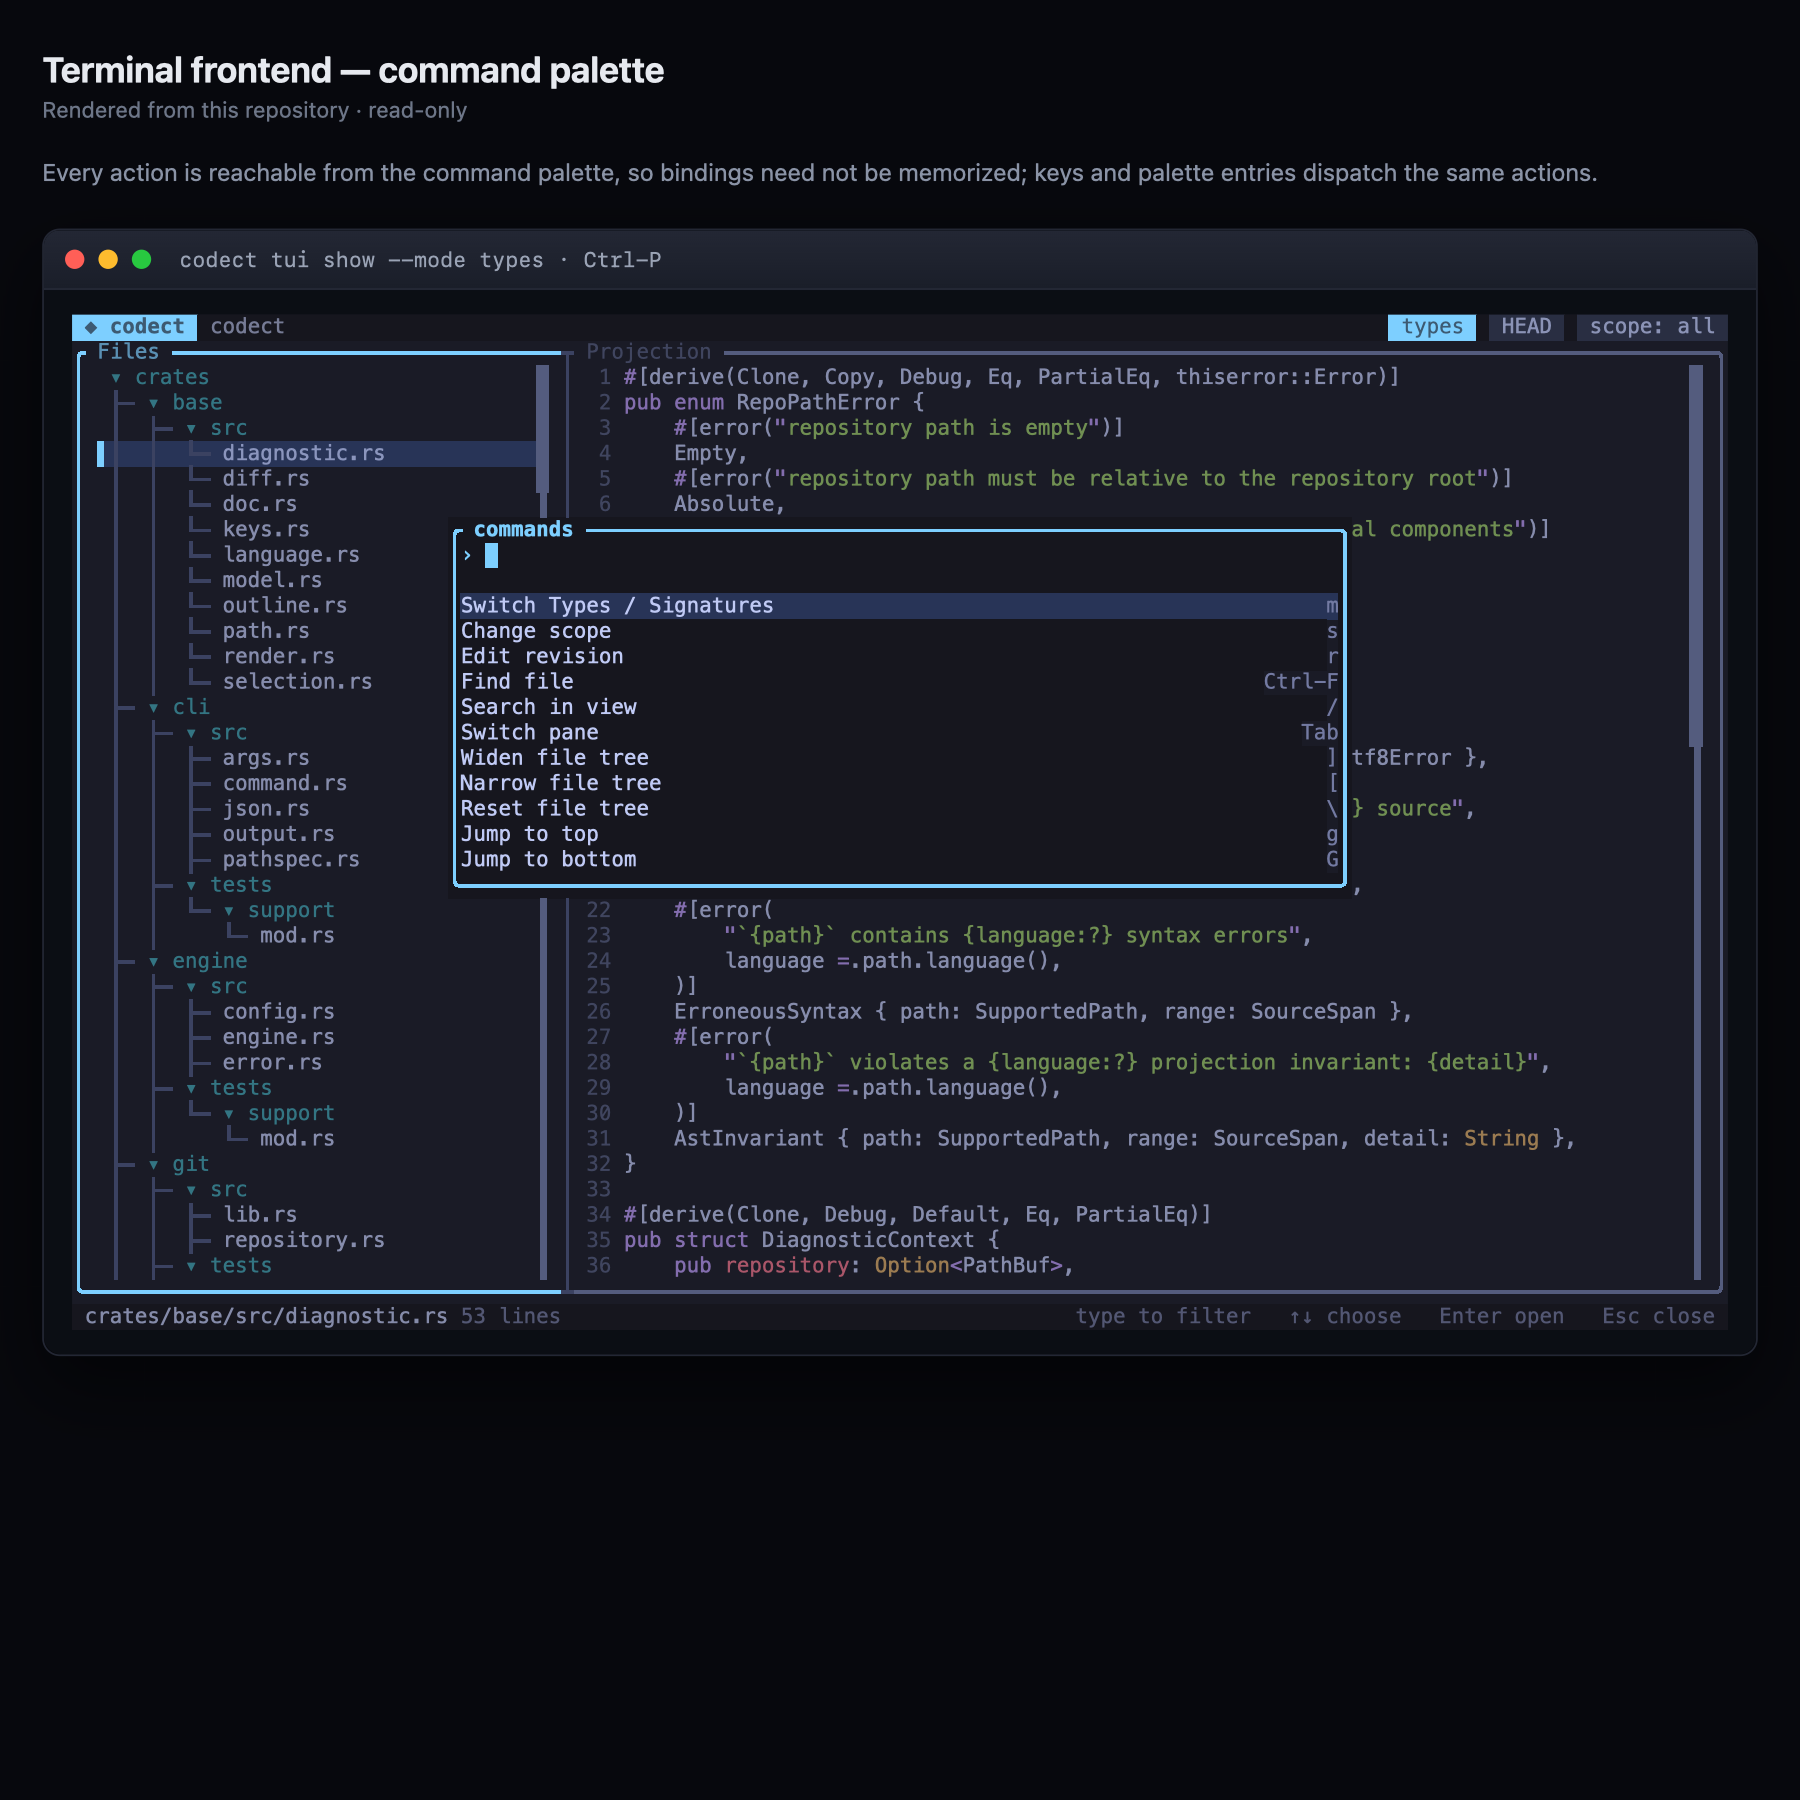
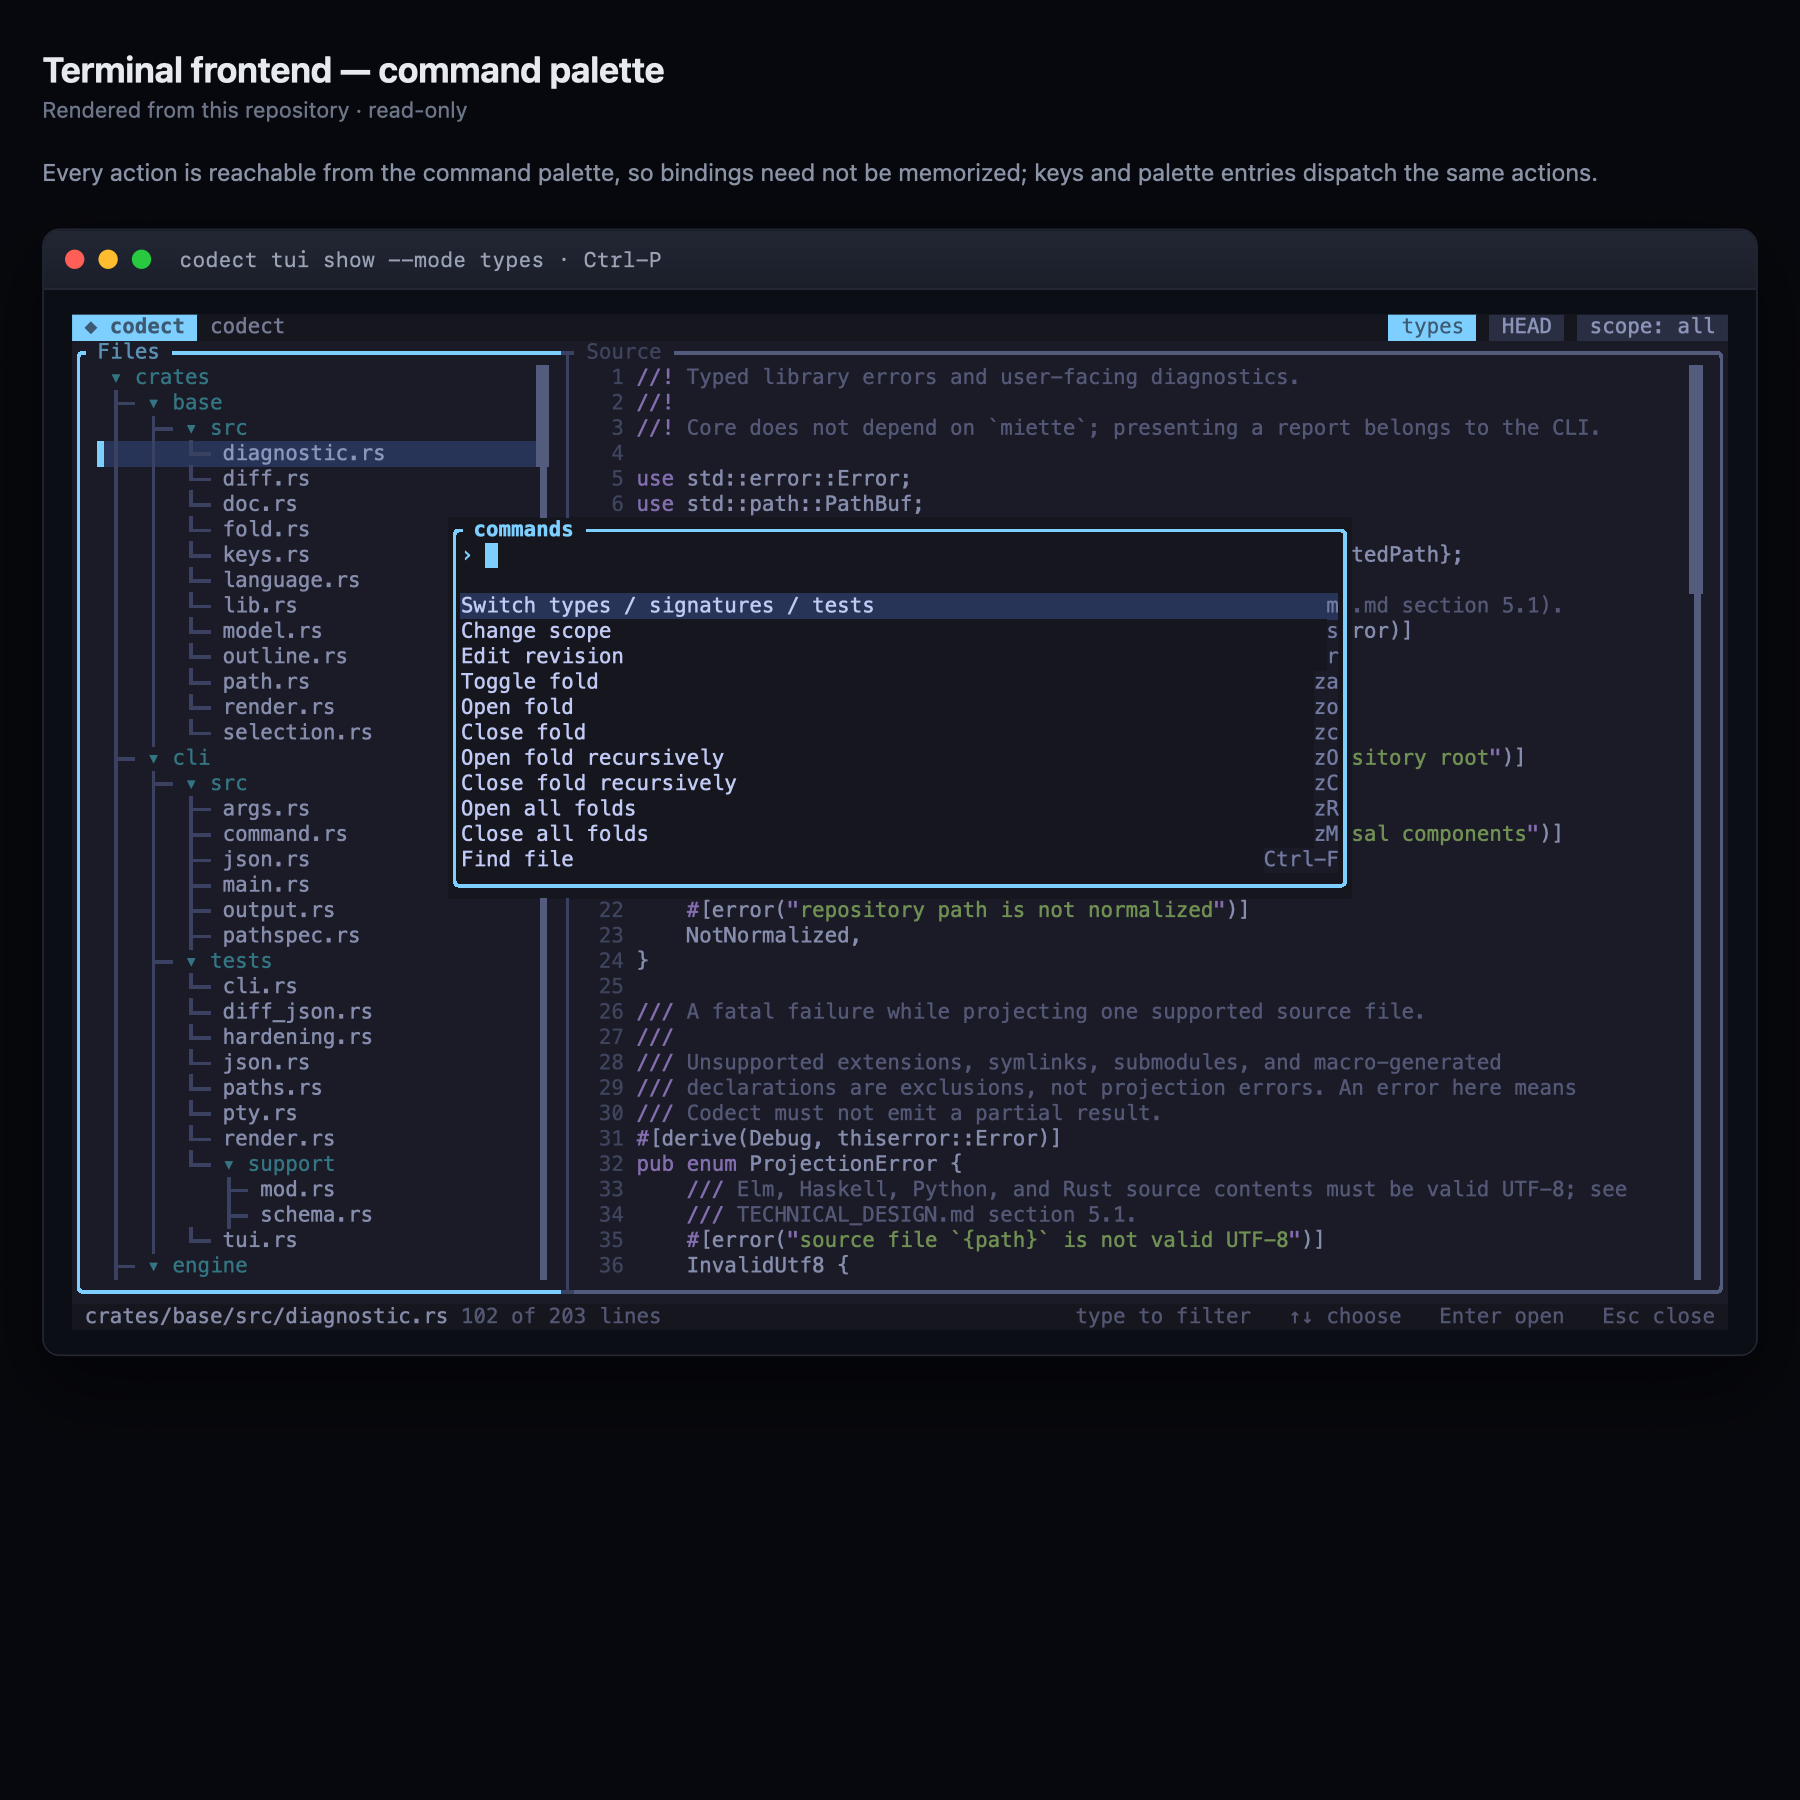
docs(showcase): regenerate the tui show frame for the source explorer

diff --git a/scripts/showcase_tui.py b/scripts/showcase_tui.py
@@ -27,8 +27,9 @@ RENDER_SIZE = 1800
 # (frame file stem, page title, command shown in the window bar, caption)
 FRAMES = [
     ("tui-show", "Terminal frontend — show", "codect tui show --mode types",
-     "A file tree beside the canonical projection. `m` switches Types/Signatures, "
-     "`s` changes scope, and the projection is searchable with `/`."),
+     "A source explorer: the real source with mode-driven folds. `j`/`k` move the body "
+     "cursor; `za`/`zo`/`zc`/`zO`/`zC`/`zR`/`zM` and `Enter` fold; `m` switches "
+     "types/signatures/tests; `/` searches."),
     ("tui-diff-range", "Terminal frontend — diff range", "codect tui diff range --mode types",
      "A side-by-side projection diff with full-width hunk bands and brighter "
      "intra-line emphasis on the bytes that changed."),
